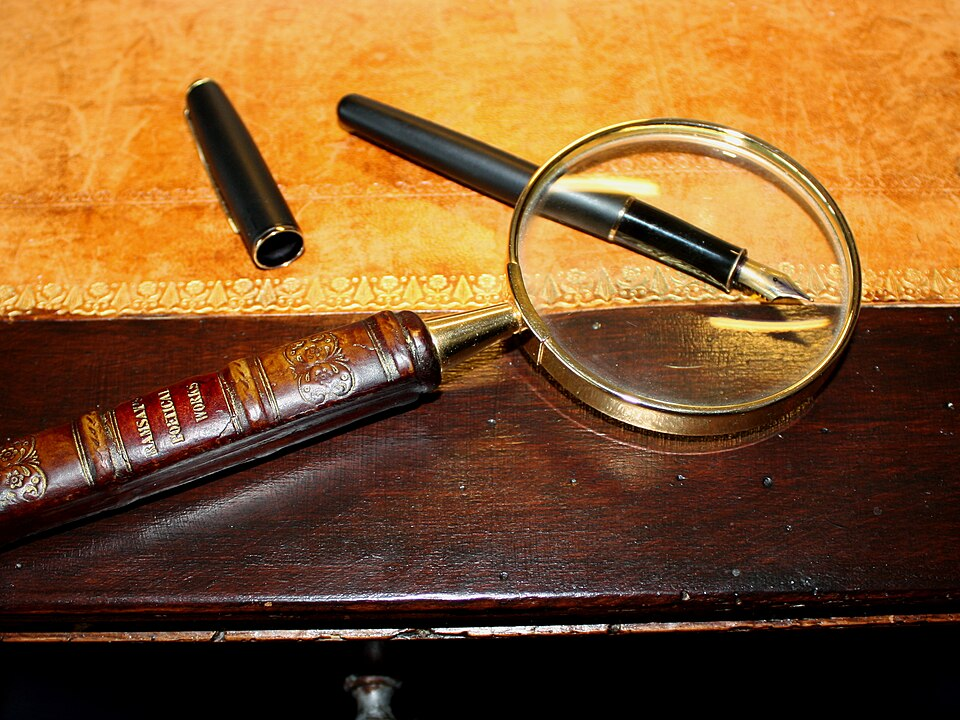
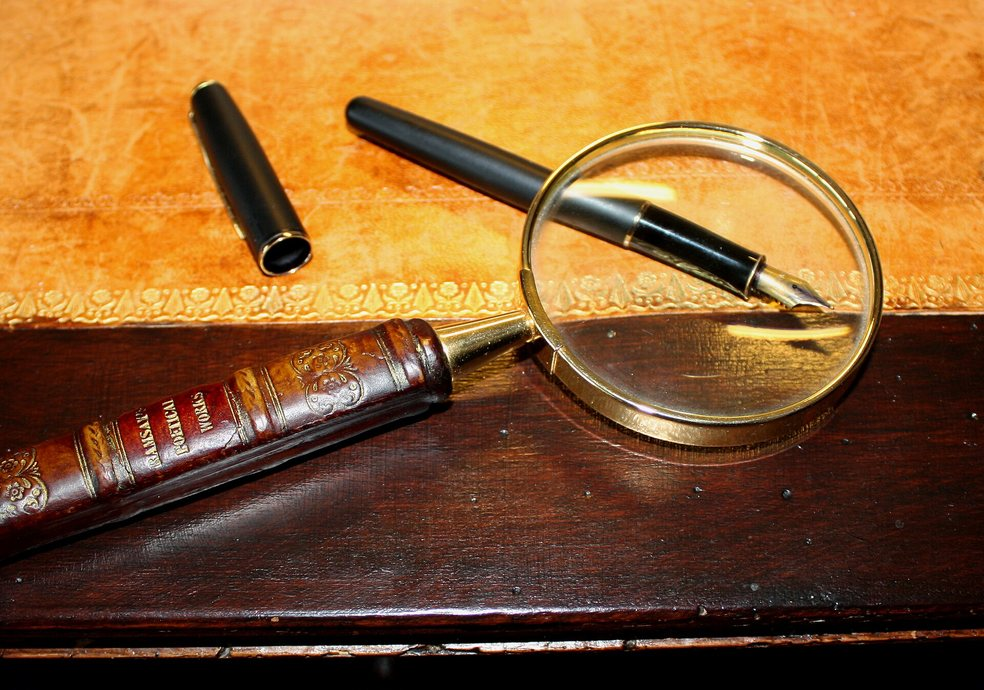
decks: inf11-recherche.html - chapter pictures cut to the box (no white bars, Lincoln without the paper rim), six photos beside the bullets (CERN data centre, soap bubble, iceberg, card catalogue, Darwin's notebook, Google's first server) with credits

diff --git a/HTML/decks/inf11-recherche.html b/HTML/decks/inf11-recherche.html
@@ -37,23 +37,23 @@
 <p class="line l0 step" data-g="1">Heute geht es um den zweiten Schritt: <b>beschaffen</b> — die Recherche</p>
 <p class="line l0 step" data-g="2">Suchen kann jeder. <b>Gut</b> suchen heißt: schnell finden, was stimmt</p>
 <p class="line l0 step" data-g="3">Leitfrage: Wie finde ich zu meiner Frage Quellen, <b>denen ich trauen kann</b>?</p></div><p class="foot">Nicht verzagen, Doc Alvers fragen!</p><p class="pageno"></p></section>
-<section class="slide content"><h3>Am Anfang steht die Frage</h3><div class="rules"></div><div class="body"><p class="line l0 step" data-g="0">Eine gute Recherche beginnt nicht mit der Suchmaschine, sondern mit einer <b>möglichst genauen Frage</b></p>
+<section class="slide content has-side"><h3>Am Anfang steht die Frage</h3><div class="rules"></div><div class="body"><p class="line l0 step" data-g="0">Eine gute Recherche beginnt nicht mit der Suchmaschine, sondern mit einer <b>möglichst genauen Frage</b></p>
 <p class="line l0 step" data-g="1">Die Frage entscheidet, was überhaupt ein Treffer ist</p>
 <p class="line l0 step" data-g="2">Zu ungenau: „Rechenzentren“ — genauer: „Wie viel Strom verbrauchen Rechenzentren in Deutschland?“</p>
 <p class="line l0 step" data-g="3">Aus der Frage die <b>Suchbegriffe</b> ableiten: Fachwörter, Synonyme, auch englische Begriffe</p>
-<p class="line l0 step" data-g="4">Zwei Minuten Nachdenken sparen eine Stunde Suchen</p></div><p class="foot">Nicht verzagen, Doc Alvers fragen!</p><p class="pageno"></p></section>
+<p class="line l0 step" data-g="4">Zwei Minuten Nachdenken sparen eine Stunde Suchen</p></div><figure class="side-pic"><img src="img/recherche-rechenzentrum.jpg" alt="Rechenzentrum des CERN"><figcaption><a href="https://commons.wikimedia.org/wiki/File:CERN_Server_03.jpg" target="_blank" rel="noopener">Rechenzentrum des CERN — Foto: Florian Hirzinger, CC BY-SA 3.0, Wikimedia Commons</a></figcaption></figure><p class="foot">Nicht verzagen, Doc Alvers fragen!</p><p class="pageno"></p></section>
 <section class="slide content"><h3>Suchoperatoren</h3><div class="rules"></div><table class="dtable" style="left:72px;top:146px;width:816px;font-size:11px"><colgroup><col style="width:170px"><col style="width:336px"><col style="width:310px"></colgroup><tr><th>Eingabe</th><th>Wirkung</th><th>Beispiel</th></tr><tr><td class="b" style="background:#FBEBBF">"Wortfolge"</td><td>sucht die Wörter genau in dieser Reihenfolge</td><td>"digitale Souveränität"</td></tr><tr><td class="b" style="background:#DDE8C6">site:</td><td>sucht nur auf einer Website oder Domain</td><td>site:bildung.sachsen.de Lehrplan</td></tr><tr><td class="b">-Wort</td><td>schließt ein Wort aus</td><td>Jaguar -Auto</td></tr><tr><td class="b">OR</td><td>findet Seiten mit dem einen oder dem anderen Wort</td><td>Rechenzentrum OR Datacenter</td></tr><tr><td class="b">filetype:</td><td>sucht nur Dateien eines Typs</td><td>Stromverbrauch filetype:pdf</td></tr></table><div class="body" style="top:282.1px;height:213.9px"><p class="line l0 step" data-g="0">Anführungszeichen und site: schneiden den <b>Beifang</b> am stärksten zusammen</p></div><p class="foot">Nicht verzagen, Doc Alvers fragen!</p><p class="pageno"></p></section>
-<section class="slide content"><h3>Filterblase und Werbung</h3><div class="rules"></div><div class="body"><p class="line l0 step" data-g="0">Suchmaschinen und Netzwerke <b>personalisieren</b>: Sie zeigen bevorzugt, was zur bisherigen Nutzung passt</p>
+<section class="slide content has-side"><h3>Filterblase und Werbung</h3><div class="rules"></div><div class="body"><p class="line l0 step" data-g="0">Suchmaschinen und Netzwerke <b>personalisieren</b>: Sie zeigen bevorzugt, was zur bisherigen Nutzung passt</p>
 <p class="line l0 step" data-g="1">So entsteht eine <b>Filterblase</b> — widersprechende Sichtweisen erscheinen seltener</p>
 <p class="line l0 step" data-g="2">Gegenmittel: bewusst andere Quellen und Suchwege wählen</p>
 <p class="line l0 step" data-g="3">Bezahlte Treffer müssen als <b>Anzeige</b> gekennzeichnet sein — auch redaktionell aussehende Texte können Werbung sein</p>
-<p class="line l0 step" data-g="4">Leitfrage bei jedem Text: Wer verdient daran, dass ich das glaube?</p></div><p class="foot">Nicht verzagen, Doc Alvers fragen!</p><p class="pageno"></p></section>
+<p class="line l0 step" data-g="4">Leitfrage bei jedem Text: Wer verdient daran, dass ich das glaube?</p></div><figure class="side-pic"><img src="img/recherche-seifenblase.jpg" alt="Spiegelung in einer Seifenblase"><figcaption><a href="https://commons.wikimedia.org/wiki/File:Reflection_in_a_soap_bubble_edit.jpg" target="_blank" rel="noopener">Spiegelung in einer Seifenblase — Foto: Brocken Inaglory, CC BY-SA 3.0, Wikimedia Commons</a></figcaption></figure><p class="foot">Nicht verzagen, Doc Alvers fragen!</p><p class="pageno"></p></section>
 <section class="slide content"><h3>Drei Wege zu Quellen</h3><div class="rules"></div><table class="dtable" style="left:72px;top:146px;width:816px;font-size:11px"><colgroup><col style="width:230px"><col style="width:293px"><col style="width:293px"></colgroup><tr><th>Suchweg</th><th>Stärke</th><th>Schwäche</th></tr><tr><td class="b" style="background:#FBEBBF">Suchmaschine</td><td>riesige Abdeckung, schnell</td><td>ungeprüft, sortiert nach Beliebtheit</td></tr><tr><td class="b" style="background:#DDE8C6">Bibliothekskatalog</td><td>geprüfte Bücher und Zeitschriften</td><td>zeigt vor allem den Bestand der Bibliothek</td></tr><tr><td class="b" style="background:#E6ECF8">Fachportal, Fachdatenbank</td><td>fachlich geprüft, meist zitierfähig</td><td>engere Abdeckung, oft nur mit Zugang</td></tr></table><div class="body" style="top:241.4px;height:254.6px"><p class="line l0 step" data-g="0">Kataloge und Fachdatenbanken gehören zum <b>Deep Web</b>: Die Websuche erfasst sie nicht</p></div><p class="foot">Nicht verzagen, Doc Alvers fragen!</p><p class="pageno"></p></section>
-<section class="slide content"><h3>Deep Web ist nicht Darknet</h3><div class="rules"></div><div class="body"><p class="line l0 step" data-g="0"><b>Deep Web</b>: alles, was Suchmaschinen nicht erfassen — hinter Anmeldungen oder in Datenbanken</p>
+<section class="slide content has-side"><h3>Deep Web ist nicht Darknet</h3><div class="rules"></div><div class="body"><p class="line l0 step" data-g="0"><b>Deep Web</b>: alles, was Suchmaschinen nicht erfassen — hinter Anmeldungen oder in Datenbanken</p>
 <p class="line l0 step" data-g="1">Dazu gehören Bibliothekskataloge, Fachdatenbanken, euer Schulportal</p>
 <p class="line l0 step" data-g="2">Das ist ganz <b>legal</b> — nur eben nicht über die Websuche erreichbar</p>
 <p class="line l0 step" data-g="3"><b>Darknet</b>: abgeschottete Netze wie Tor — dort finden sich auch illegale Angebote</p>
-<p class="line l0 step" data-g="4">Für die Schule heißt das: direkt im Katalog oder im Fachportal suchen</p></div><p class="foot">Nicht verzagen, Doc Alvers fragen!</p><p class="pageno"></p></section>
+<p class="line l0 step" data-g="4">Für die Schule heißt das: direkt im Katalog oder im Fachportal suchen</p></div><figure class="side-pic"><img src="img/recherche-eisberg.jpg" alt="Eisberg über und unter Wasser"><figcaption><a href="https://commons.wikimedia.org/wiki/File:Iceberg.jpg" target="_blank" rel="noopener">Eisberg über und unter Wasser (Montage) — Uwe Kils, Wiska Bodo, CC BY-SA 3.0, Wikimedia Commons</a></figcaption></figure><p class="foot">Nicht verzagen, Doc Alvers fragen!</p><p class="pageno"></p></section>
 <section class="slide chapter has-pic">
       <div class="chapter-bar"></div>
       <p class="kicker">Kapitel 02</p>
@@ -103,21 +103,21 @@
 <p class="line l0 step" data-g="1">Doppelte Aussagen aus derselben Ursprungsquelle <b>zusammenfassen</b> — sie zählen nur einmal</p>
 <p class="line l0 step" data-g="2">Danach wird sichtbar, wo noch <b>Lücken</b> sind</p>
 <p class="line l0 step" data-g="3">Quellen zusammenführen heißt auch: fremde Gedanken <b>kennzeichnen</b> — sonst ist es ein Plagiat</p></div><p class="foot">Nicht verzagen, Doc Alvers fragen!</p><p class="pageno"></p></section>
-<section class="slide content"><h3>Die Quellenangabe</h3><div class="rules"></div><div class="body"><p class="line l0 step" data-g="0">Für eine Internetseite gehören dazu: <b>Autor oder Herausgeber, Titel, URL und Abrufdatum</b></p>
+<section class="slide content has-side"><h3>Die Quellenangabe</h3><div class="rules"></div><div class="body"><p class="line l0 step" data-g="0">Für eine Internetseite gehören dazu: <b>Autor oder Herausgeber, Titel, URL und Abrufdatum</b></p>
 <p class="line l1 step" data-g="0">Herausgeber: Titel der Seite. URL, abgerufen am 12.10.2026</p>
 <p class="line l0 step" data-g="1">Das <b>Abrufdatum</b>, weil sich Inhalte im Netz jederzeit ändern oder verschwinden können</p>
 <p class="line l0 step" data-g="2">Autor und Titel machen die Angabe auch ohne Klick verständlich</p>
-<p class="line l0 step" data-g="3">Für wichtige Belege lohnt zusätzlich ein <b>Archivlink</b></p></div><p class="foot">Nicht verzagen, Doc Alvers fragen!</p><p class="pageno"></p></section>
-<section class="slide content"><h3>Recherchetagebuch und Sättigung</h3><div class="rules"></div><div class="body"><p class="line l0 step" data-g="0">Das <b>Recherchetagebuch</b> notiert, wo mit welchen Begriffen gesucht wurde</p>
+<p class="line l0 step" data-g="3">Für wichtige Belege lohnt zusätzlich ein <b>Archivlink</b></p></div><figure class="side-pic"><img src="img/recherche-zettelkatalog.jpg" alt="Schlagwortkatalog einer Bibliothek"><figcaption><a href="https://commons.wikimedia.org/wiki/File:Schlagwortkatalog.jpg" target="_blank" rel="noopener">Schlagwortkatalog einer Bibliothek — Foto: Marcus Gossler, CC BY-SA 3.0, Wikimedia Commons</a></figcaption></figure><p class="foot">Nicht verzagen, Doc Alvers fragen!</p><p class="pageno"></p></section>
+<section class="slide content has-side"><h3>Recherchetagebuch und Sättigung</h3><div class="rules"></div><div class="body"><p class="line l0 step" data-g="0">Das <b>Recherchetagebuch</b> notiert, wo mit welchen Begriffen gesucht wurde</p>
 <p class="line l0 step" data-g="1">Es verhindert doppelte Suchen und zeigt, was noch nicht abgesucht ist</p>
 <p class="line l0 step" data-g="2">Der Browserverlauf zeigt nur Klicks — <b>nicht die Suchstrategie</b></p>
 <p class="line l0 step" data-g="3">Fertig ist die Recherche, wenn neue Suchen überwiegend Bekanntes liefern und die Frage beantwortet ist</p>
-<p class="line l0 step" data-g="4">Dieser Punkt heißt <b>Sättigung</b> — feste Zahlen wie „zehn Quellen“ sind willkürlich</p></div><p class="foot">Nicht verzagen, Doc Alvers fragen!</p><p class="pageno"></p></section>
+<p class="line l0 step" data-g="4">Dieser Punkt heißt <b>Sättigung</b> — feste Zahlen wie „zehn Quellen“ sind willkürlich</p></div><figure class="side-pic"><img src="img/recherche-darwin.jpg" alt="Darwins Notizbuch mit dem Stammbaum-Entwurf"><figcaption><a href="https://commons.wikimedia.org/wiki/File:Darwin_Tree_1837.png" target="_blank" rel="noopener">Darwins Notizbuch B, 1837: „I think“ — gemeinfrei, Wikimedia Commons</a></figcaption></figure><p class="foot">Nicht verzagen, Doc Alvers fragen!</p><p class="pageno"></p></section>
 <section class="slide merksatz"><div class="quote-bar"></div><p class="satz">Gut recherchieren heißt: mit einer genauen Frage beginnen, gezielt suchen, jede Quelle auf Urheber, Belege und Aktualität prüfen — und alles so notieren, dass andere es nachprüfen können.</p><p class="label">Merksatz</p><p class="foot">Nicht verzagen, Doc Alvers fragen!</p><p class="pageno"></p></section>
-<section class="slide content"><h3>Fun Facts</h3><div class="rules"></div><div class="body"><p class="line l0 step" data-g="0">Die erste Suchmaschine hieß <b>Archie</b> (1990) — sie durchsuchte noch keine Webseiten, sondern Dateiarchive</p>
+<section class="slide content has-side"><h3>Fun Facts</h3><div class="rules"></div><div class="body"><p class="line l0 step" data-g="0">Die erste Suchmaschine hieß <b>Archie</b> (1990) — sie durchsuchte noch keine Webseiten, sondern Dateiarchive</p>
 <p class="line l0 step" data-g="1">Der Name <b>Google</b> spielt auf „Googol“ an: eine 1 mit 100 Nullen</p>
 <p class="line l0 step" data-g="2">Das berühmte Lincoln-Porträt ist eine <b>Montage</b>: Lincolns Kopf sitzt auf dem Körper des Politikers John C. Calhoun</p>
-<p class="line l0 step" data-g="3">Die <b>Wayback Machine</b> des Internet Archive speichert seit 1996 Webseiten — inzwischen Hunderte Milliarden</p></div><p class="foot">Nicht verzagen, Doc Alvers fragen!</p><p class="pageno"></p></section>
+<p class="line l0 step" data-g="3">Die <b>Wayback Machine</b> des Internet Archive speichert seit 1996 Webseiten — inzwischen Hunderte Milliarden</p></div><figure class="side-pic"><img src="img/recherche-google-server.jpg" alt="Googles erster Produktionsserver"><figcaption><a href="https://commons.wikimedia.org/wiki/File:Google%E2%80%99s_First_Production_Server.jpg" target="_blank" rel="noopener">Googles erster Produktionsserver, 1999 — Foto: Steve Jurvetson, CC BY 2.0, Wikimedia Commons</a></figcaption></figure><p class="foot">Nicht verzagen, Doc Alvers fragen!</p><p class="pageno"></p></section>
 <section class="slide content"><h3>Eure Aufgabe</h3><div class="rules"></div><div class="body"><p class="line l0 step" data-g="0"><b>Rechercheauftrag</b> in Partnerarbeit: eine genaue Frage formulieren, dann mit mindestens zwei Operatoren suchen</p>
 <p class="line l0 step" data-g="1">Führt dabei ein kurzes <b>Recherchetagebuch</b>: Suchort, Suchbegriffe, Ergebnis</p>
 <p class="line l0 step" data-g="2"><b>Quellenvergleich</b>: drei gefundene Seiten mit dem Bewertungsraster prüfen — Urheber, Belege, Aktualität, Absicht</p>
